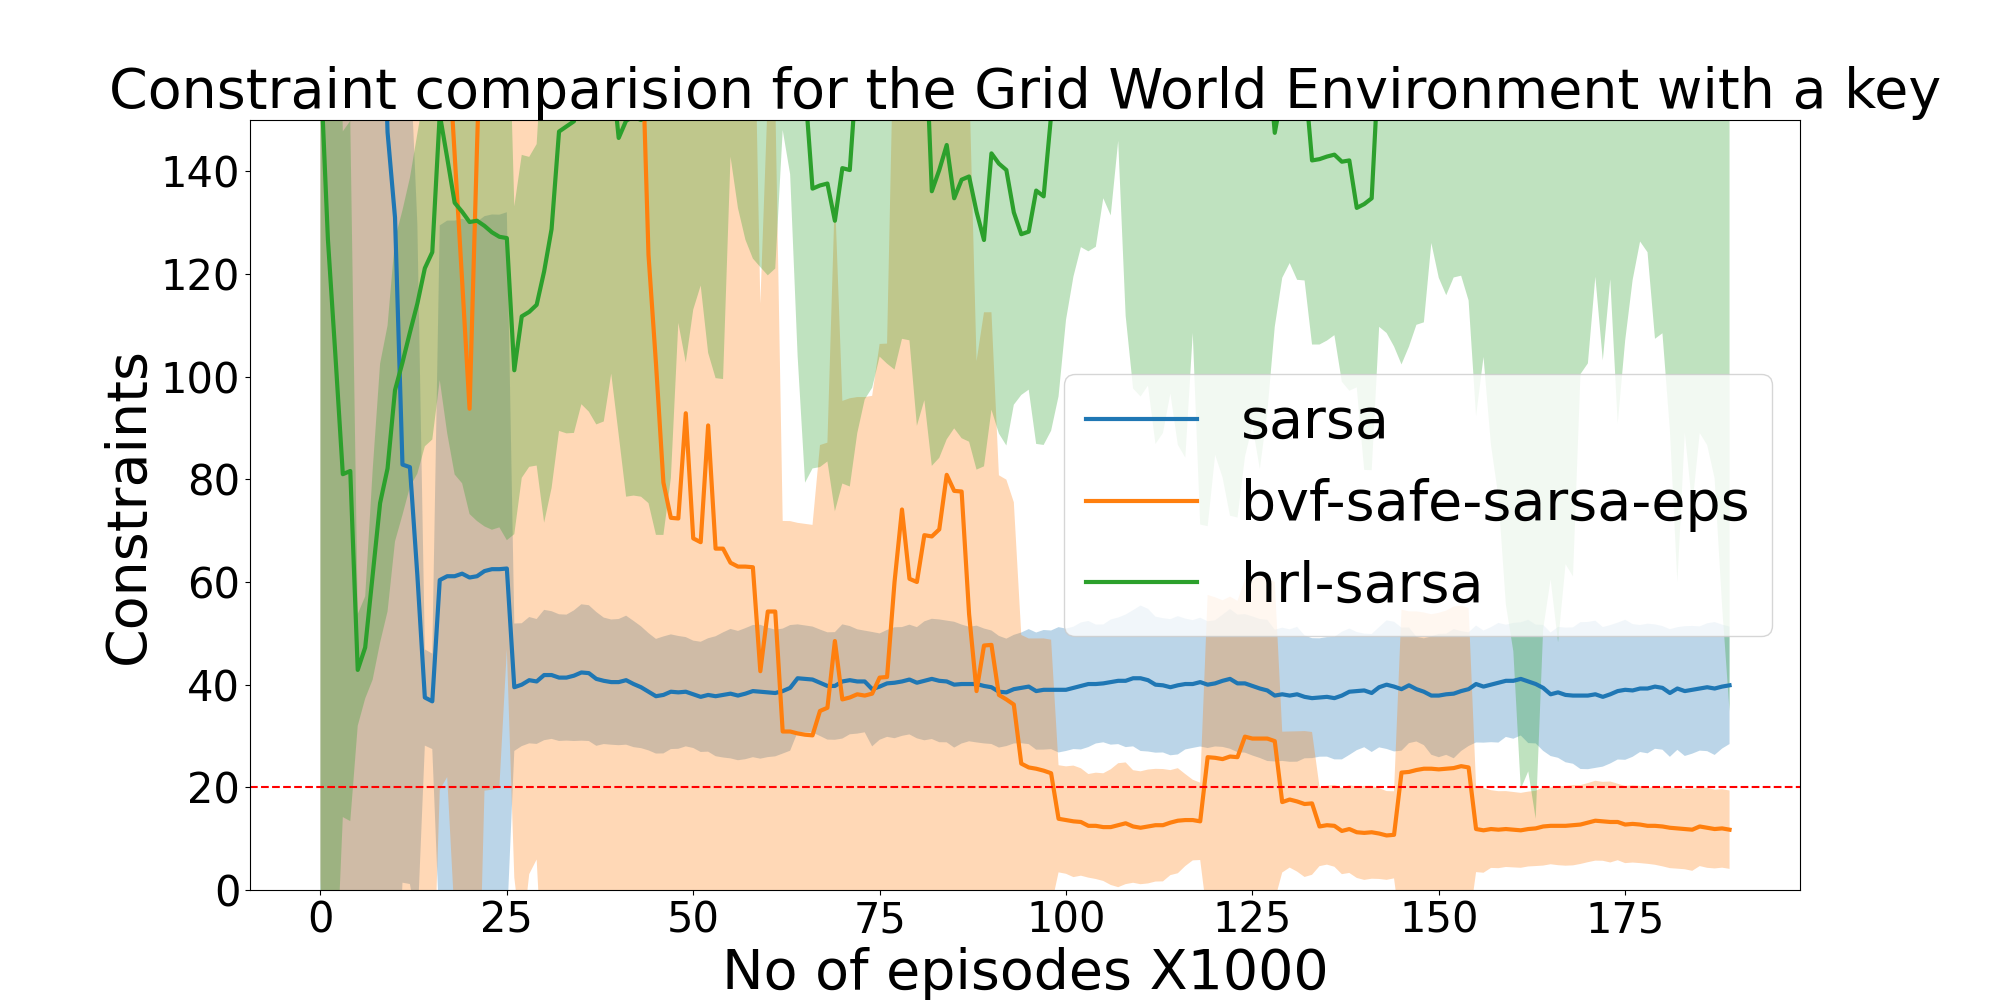
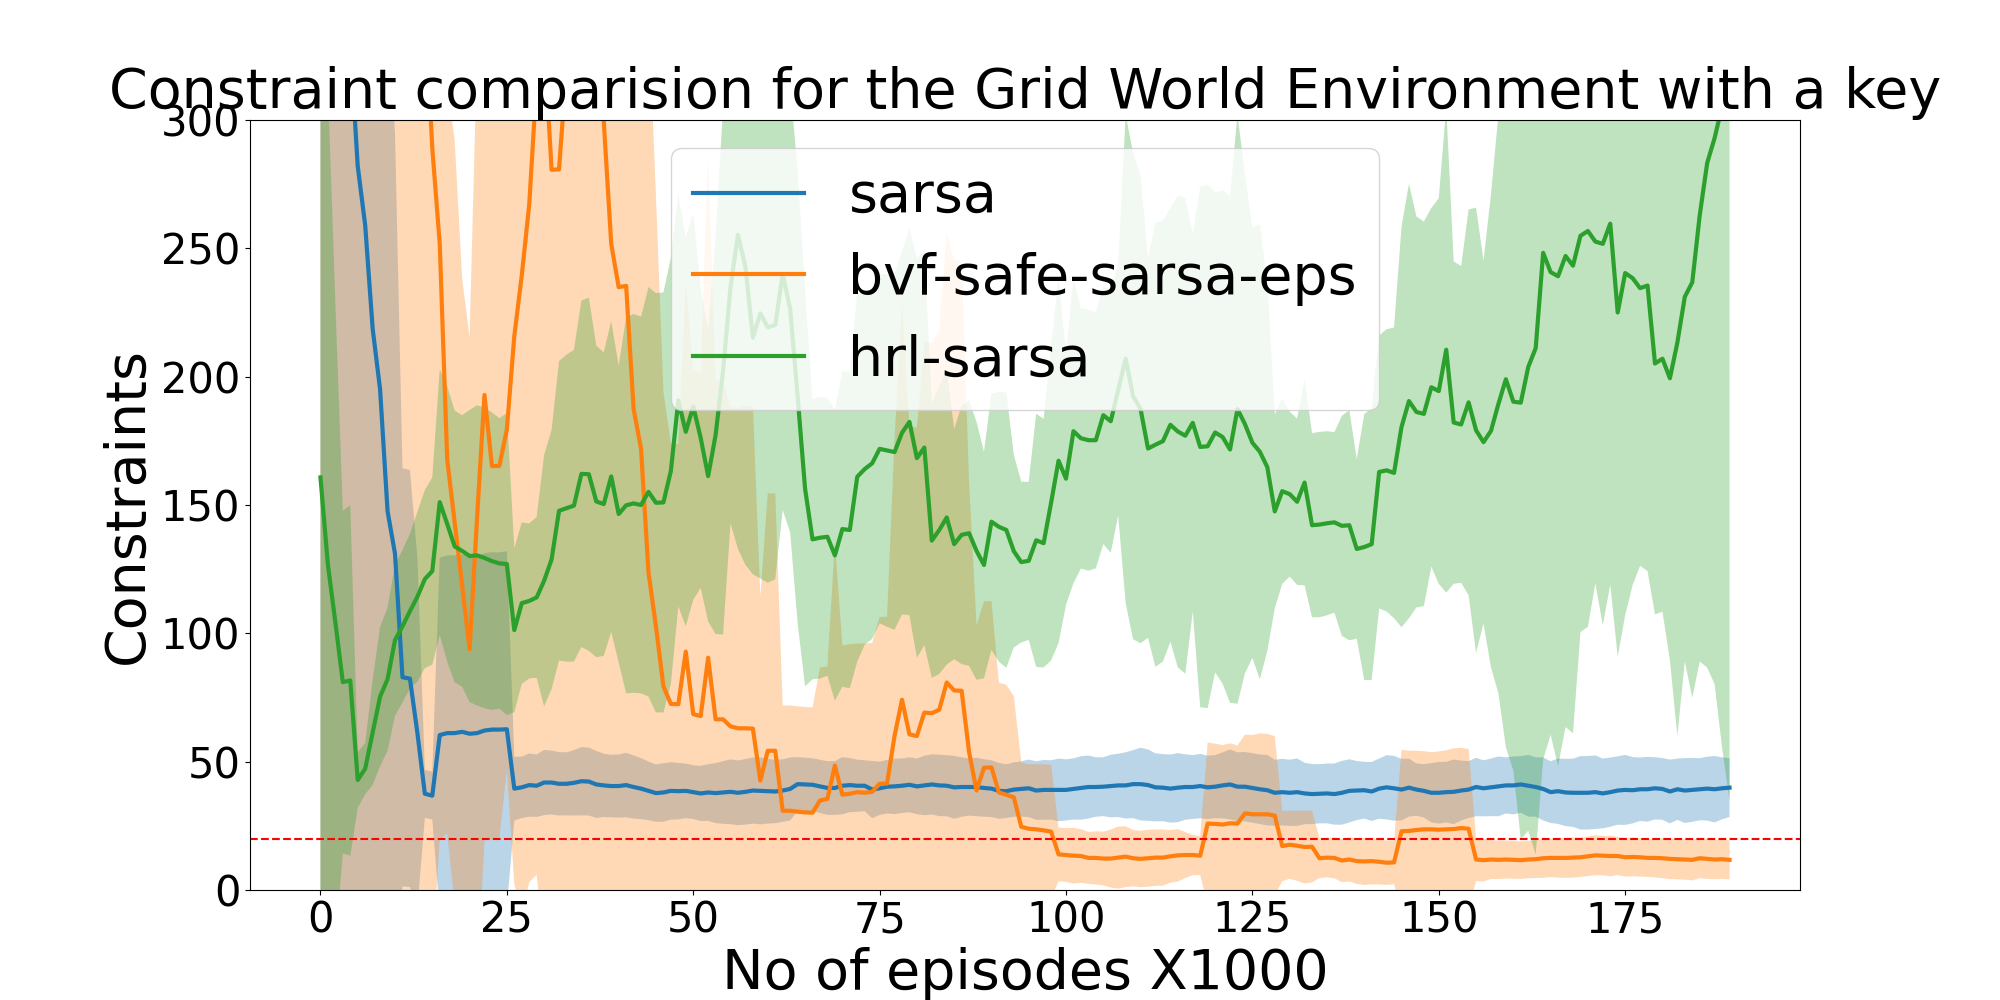
random

diff --git a/envs/ours/gird/safety_gridworld_with_key.py b/envs/ours/gird/safety_gridworld_with_key.py
@@ -227,7 +227,21 @@ class PitWorld_Key(gym.Env):
 
 
 
-    def to_string(self):
+    def to_string(self, goal_space=None):
+
+        #here goal space is given as a list of integer values as done in the arguments. This it is converted into coordinates as done int \ours\grid\utils.py
+        SUB_G = np.zeros((self.size, self.size))
+        if goal_space != None:
+            g_s_x = []
+            g_s_y = []
+
+            for i in goal_space:
+                g_s_x.append((i) % self.size)
+                g_s_y.append((i) //self.size)
+
+            for j in range(len(goal_space)):
+                SUB_G[g_s_y[j]][g_s_x[j]] = 1
+
         my = self.maze.shape[1]
         mx = self.maze.shape[2]
         str = ''
@@ -243,6 +257,11 @@ class PitWorld_Key(gym.Env):
                     str += '  x'
                 elif self.maze[KEY][y][x] == 1:
                     str += '  K'
+                elif goal_space != None:
+                    if SUB_G[y][x] == 1:
+                        str += '  S'
+                    else:
+                        str += '   '
                 else:
                     str += '   '
             str += '\n'

diff --git a/common/ours/arguments.py b/common/ours/arguments.py
@@ -12,7 +12,7 @@ def get_args():
     parser = argparse.ArgumentParser(description='collect arguments')
 
     parser.add_argument('--save_dir', type=str, default="results/grid/sarsa_key/")
-    parser.add_argument('--exp_no', type=str, default="8")
+    parser.add_argument('--exp_no', type=str, default="1")
     parser.add_argument("--goal_space", type=list, default=[212, 86, 160, 163, 282, 135, 200])  #this is for dicrete goal setting in an HRL setup
     #[212, 86, 160, 163, 282, 135, 200]
     parser.add_argument('--env-name', default='pg',

diff --git a/misc/grid_numbering.py b/misc/grid_numbering.py
@@ -17,7 +17,7 @@ for i in range(18): #y
 
 start = 180
 
-goal = [212, 86, 135, 282, 147, 200]
+goal = [212, 86, 160, 163, 282, 135, 200]  #key 160, goal 163
 print(G.convert_cooridnates_to_value(16, 10))
 print(G.convert_value_to_coordinates(298))
 A = np.array(A)
@@ -31,7 +31,7 @@ args = get_args()
 args.env_name = "grid_key"
 env = create_env(args)
 
-print(env.to_string())
+print(env.to_string(goal_space=goal))
 
 state = env.reset()
 state = torch.FloatTensor(state)

diff --git a/plot_grid_key.py b/plot_grid_key.py
@@ -122,6 +122,6 @@ plt.ylabel("Constraints", size=40)
 plt.title("Constraint comparision for the Grid World Environment with a key", size=40)
 name = "figures/grid/Constraints_Key"
 
-ax.set_ylim(0, 150)
+ax.set_ylim(0, 300)
 plt.savefig(name)
 plt.close(fig)
